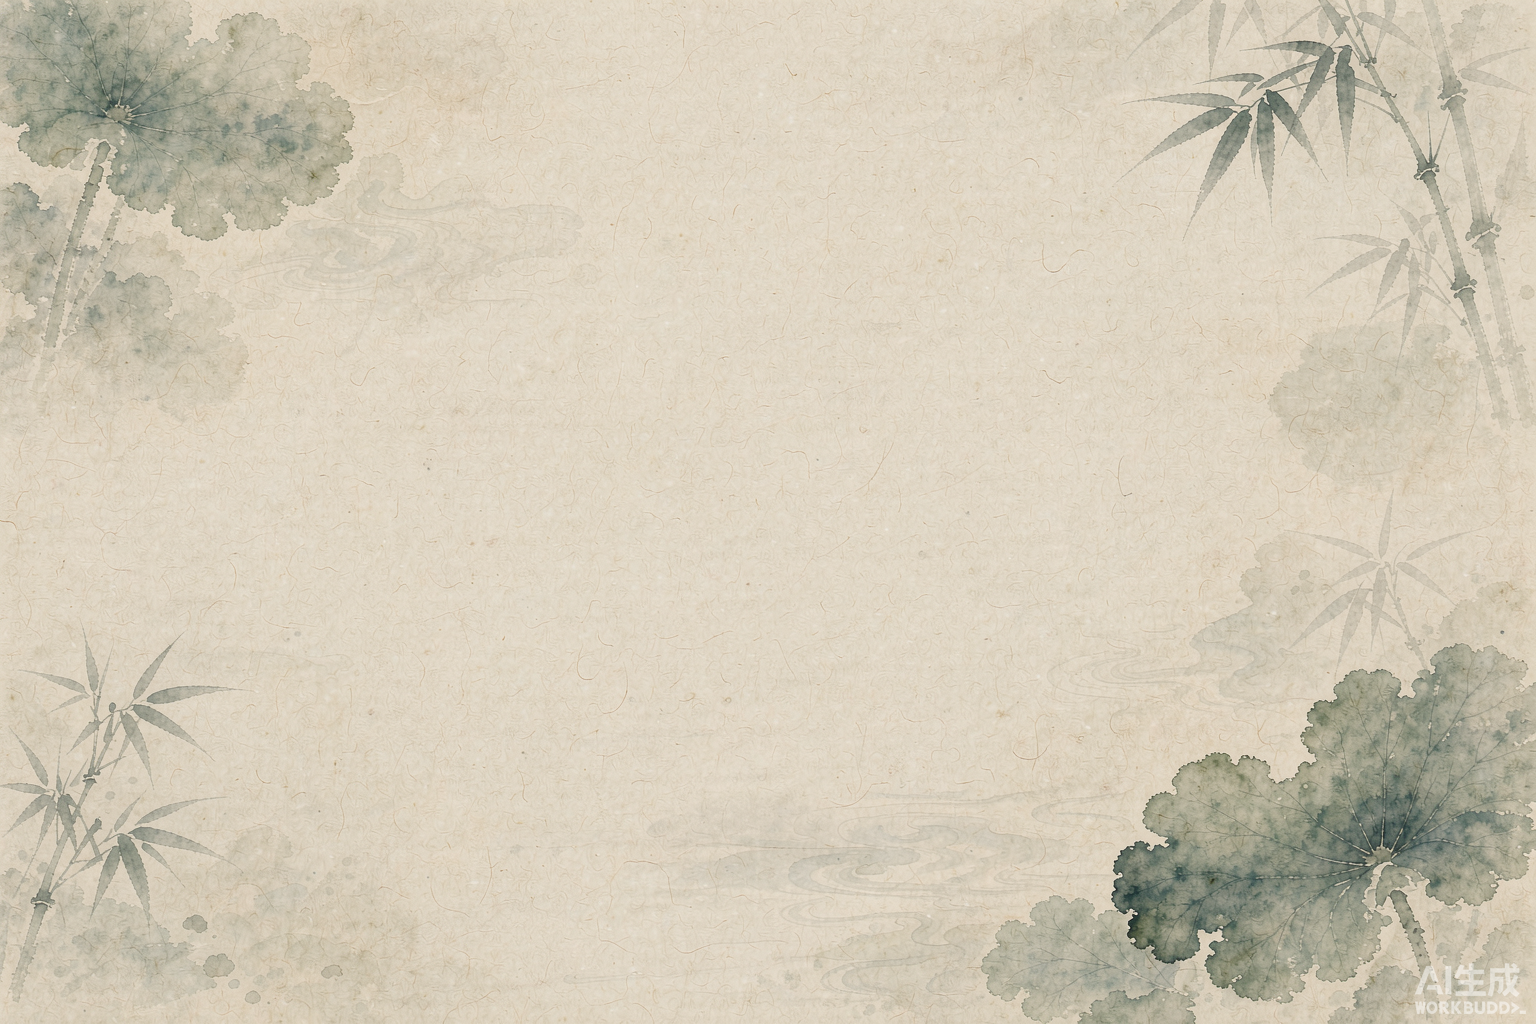
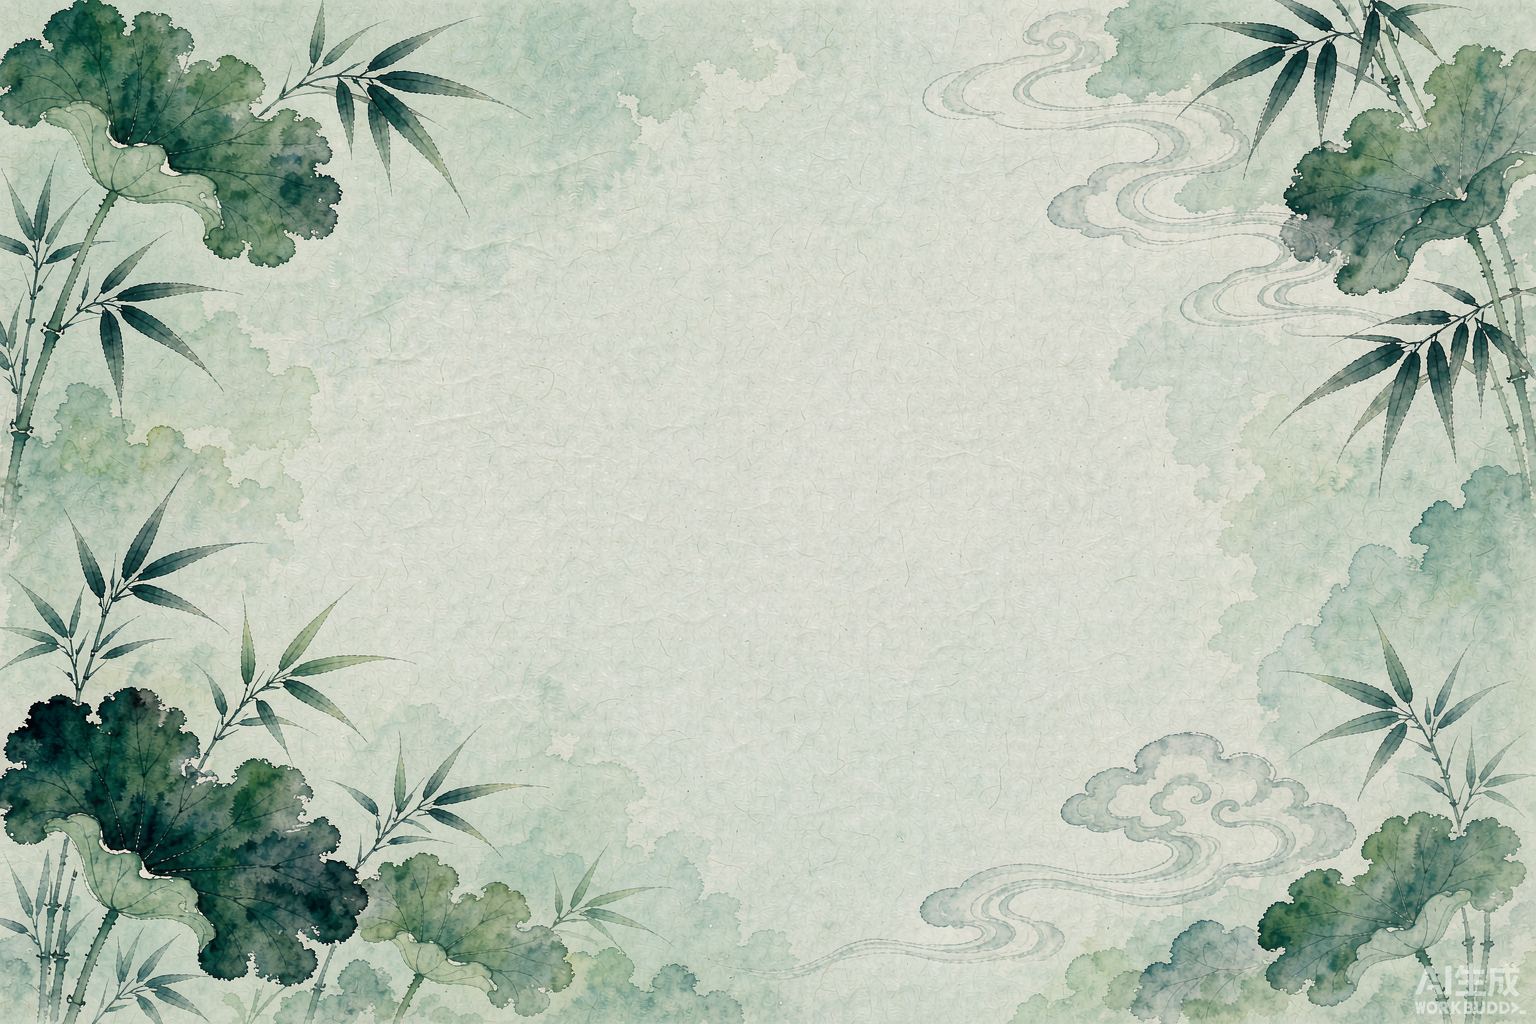
fix+art(ui): 开场粒子清晰度/数量/斜穿方向 + 背景季节染色（重出四季背景）
【① 粒子"太淡看不清"】alpha 0.45~0.95 → **0.80~1.00**；缩放 0.6~1.35 → **1.05~2.10**。
【② 粒子"有点少"】`LeafCount` 16/16/16/18/22 → **32/30/32/28/26**（prefab 与代码默认同步）。
【③ "没到右下角就到底了" —— 速度配比反了】
  1920×1080 要从左上斜穿到右下 ⇒ 横向速度应约为纵向的 **2 倍**。
  原来是 VX 60~130 / VY 110~190（纵向更快）⇒ 当然先到底 ✗
  ⇒ 改 **VX 300~470 / VY 140~250**；`Life` 也改成按**横向穿越时间**算，保证淡出发生在快出画时。
【④ "背景好像没有变化"】
  两个原因：一是原背景只在四角点淡纹、整体几乎同色；二是**没有季节色**。
  ⇒ ① 新增 `ActTitle.BgTint`（每幕背景染色：春粉/夏绿/秋赭/冬冷蓝/长夏暖）并写入 prefab（5/5）；
     ② **重出四季背景**，整体染上该季色调、四角纹样加浓到"清楚可辨"。

【实测】5 幕各自取到 背景 bg_1..5 / 粒子 particle_1..5、染色正确、落叶 26~32 只。
（⛔ 又验证了一次：**prefab 存的是序列化数据** —— 新加的 `BgTint` 字段必须先编译，
   prefab 里才写得进去；本轮分两步做。）

diff --git a/Assets/WanXiang/Modules/UI/ActIntroPanel.cs b/Assets/WanXiang/Modules/UI/ActIntroPanel.cs
@@ -46,9 +46,11 @@ namespace WanXiang.Modules.UI
             /// <summary>主标题颜色。</summary>
             public Color MainColor = new Color(0.78f, 0.60f, 0.24f, 1f);
             /// <summary>落叶数量（多了会糊，12~20 合适）。</summary>
-            public int LeafCount = 16;
+            public int LeafCount = 30;
             /// <summary>落叶速度倍率（&gt;1 更快）。</summary>
             public float LeafSpeed = 1f;
+            /// <summary>背景染色（乘在底图上）。每季不同 ⇒ 一眼能看出换季了。</summary>
+            public Color BgTint = Color.white;
         }
 
         [SerializeField] private Image _imgPaper;        // Img_Paper（整屏宣纸底）
@@ -142,7 +144,7 @@ namespace WanXiang.Modules.UI
         /// **按幕号取文件** ⇒ 以后加幕/换图只要丢文件，不用改 prefab、不用改代码。
         /// 缺图时：背景回退到通用的 paper，粒子回退到模板原有的图。
         /// </summary>
-        private void ApplySeasonArt(int act)
+        private void ApplySeasonArt(int act, ActTitle t)
         {
             if (_imgPaper != null)
             {
@@ -150,6 +152,7 @@ namespace WanXiang.Modules.UI
                 if (bg == null) bg = Resources.Load<Sprite>("UI/ActIntro/paper");
                 if (bg != null) _imgPaper.sprite = bg;
             }
+            if (_imgPaper != null && t != null) _imgPaper.color = t.BgTint;   // ★ 季节染色
             var p = Resources.Load<Sprite>("UI/ActIntro/particle_" + act);
             _seasonParticle = p;
         }
@@ -176,7 +179,7 @@ namespace WanXiang.Modules.UI
                 _tmpTitleSub.color = c;
             }
 
-            ApplySeasonArt(act);      // ★ 每幕专属背景 + 粒子图（缺图自动回退）
+            ApplySeasonArt(act, t);   // ★ 每幕专属背景 + 粒子图 + 季节染色（缺图自动回退）
             if (group != null) await FadeAsync(group, 0f, 1f, _fadeIn);
             await UniTask.Delay(Ms(_titleStart));
 
@@ -274,25 +277,28 @@ namespace WanXiang.Modules.UI
                 float x = -halfW + Random.Range(0f, halfW * 1.1f);
                 float y = halfH * 1.15f - Random.Range(0f, halfH * 2.6f);
                 rt.anchoredPosition = new Vector2(x, y);
-                rt.localScale = Vector3.one * Random.Range(0.6f, 1.35f);
+                rt.localScale = Vector3.one * Random.Range(1.05f, 2.10f);
                 rt.localRotation = Quaternion.Euler(0f, 0f, Random.Range(0f, 360f));
 
                 var c = t.LeafTint;
-                float a = Random.Range(0.45f, 0.95f);
+                float a = Random.Range(0.80f, 1.00f);
                 c.a = a;
                 leaf.color = c;
 
+                // ★ 1920×1080 下要从**左上角斜穿到右下角**：横向 1920、纵向 1080
+                //   ⇒ 横向速度必须约为纵向的 2 倍。之前反了（纵向快、横向慢）⇒ 没到右边就到底（用户实测）。
                 float speed = Mathf.Max(0.1f, t.LeafSpeed);
-                float vy = Random.Range(110f, 190f) * speed;
+                float vx = Random.Range(300f, 470f) * speed;
+                float vy = Random.Range(140f, 250f) * speed;
                 _leaves.Add(new Leaf
                 {
                     Rt = rt,
                     Img = leaf,
                     VY = -vy,
-                    VX = Random.Range(60f, 130f) * speed,      // 一律朝右（左上→右下）
+                    VX = vx,                                   // 一律朝右（左上→右下）
                     RotSpd = Random.Range(-90f, 90f) * speed,
                     Delay = Random.Range(0f, 1.2f),
-                    Life = (halfH * 2f + 200f) / Mathf.Max(1f, vy),
+                    Life = Mathf.Max(2.5f, (halfW * 2f + 300f) / Mathf.Max(1f, vx)),   // 按横向穿越时间算
                     BaseAlpha = a,
                 });
             }
@@ -315,7 +321,7 @@ namespace WanXiang.Modules.UI
                     L.Age += dt;
                     var p = L.Rt.anchoredPosition;
                     // 横向再叠一层正弦摇摆，落得更像叶子
-                    p.x += (L.VX + Mathf.Sin((L.Age + i) * 2.2f) * 26f) * dt;
+                    p.x += (L.VX + Mathf.Sin((L.Age + i) * 2.0f) * 46f) * dt;
                     p.y += L.VY * dt;
                     L.Rt.anchoredPosition = p;
                     L.Rt.localRotation = Quaternion.Euler(0f, 0f,
